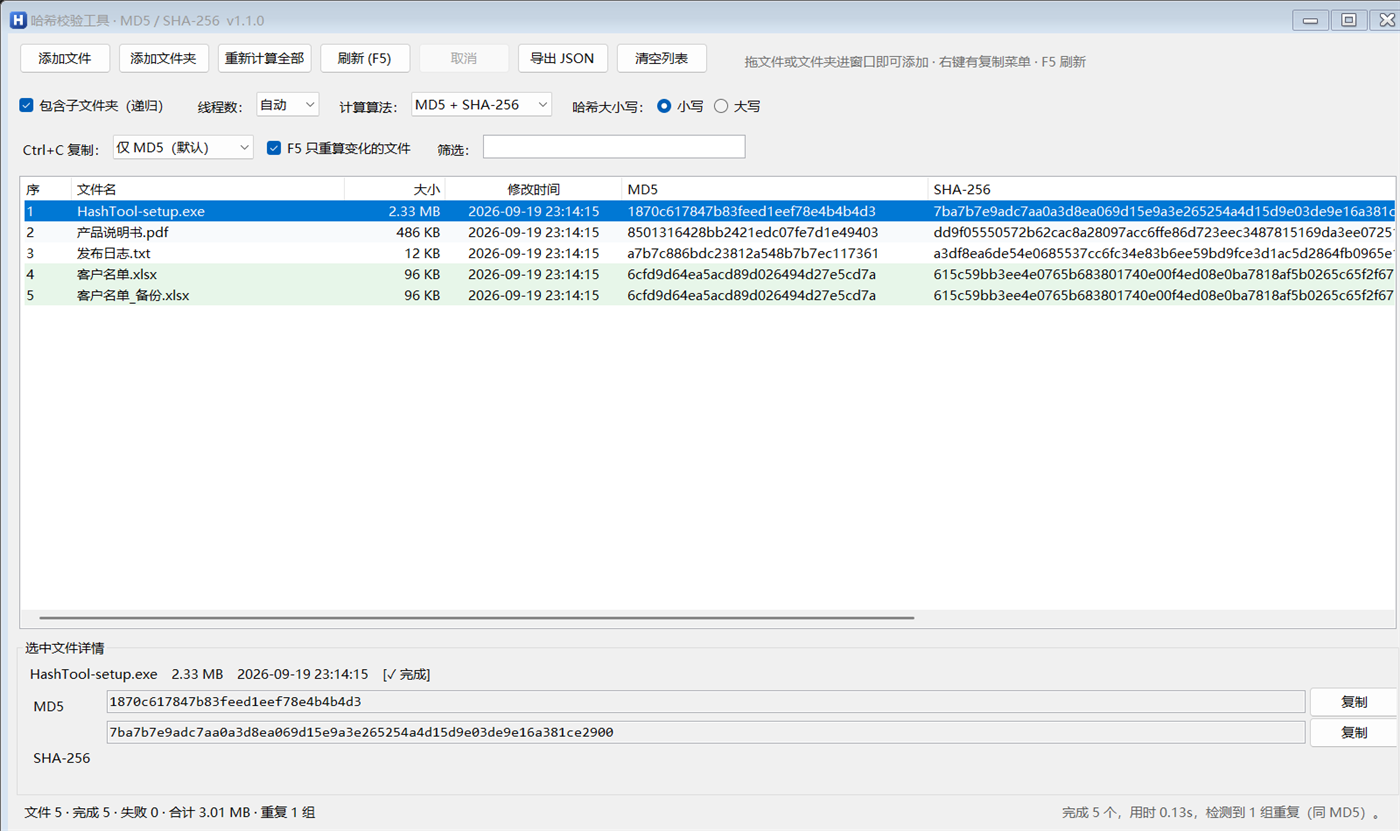
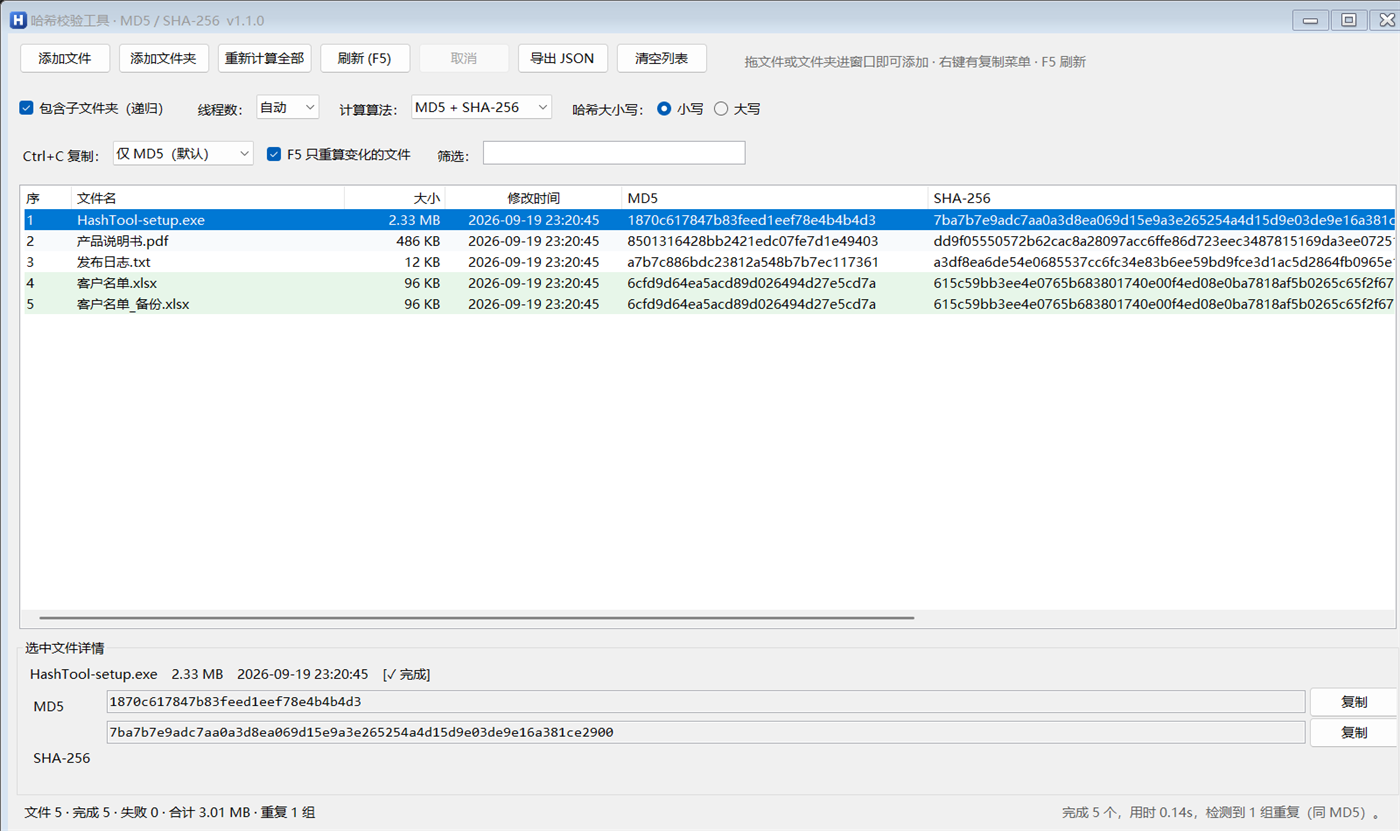
fix(ui): 工具栏在窄窗口下自动换行，不再把按钮切掉
CI 在 1024x768 的虚拟屏幕上跑时暴露了真问题：窗口被压窄后第一行按钮放不下，
右边的"导出 JSON/清空列表"会被切掉（老毛病，只是以前没人检测）。

改法：
  * 三行工具栏 WrapContents=true + AutoSize，TableLayoutPanel 对应行改成 AutoSize，
    窄了就换行、行高跟着长，最小高度兜底一行。
  * 布局自检升级：能换行的行按"需要几行 × 最高控件"算高度，只有真的放不下才报错；
    新增"窗口缩到最小尺寸也不裁"这条断言（本地已通过）。

另外修掉我自己埋的一个坑：ResizeForTest 里调了 Application.DoEvents()，
它会重新泵消息循环导致自测计时器重入、步骤重复执行（CI 日志里能看到跑了四五遍），
现在只调 PerformLayout()。

Changed region(s): [[0.0, 0.1203, 1.0, 0.3911]]

diff --git a/src/HashTool.cs b/src/HashTool.cs
@@ -868,9 +868,10 @@ namespace HashTool
             root.Dock = DockStyle.Fill;
             root.ColumnCount = 1;
             root.RowCount = 6;
-            root.RowStyles.Add(new RowStyle(SizeType.Absolute, S(44F)));   // 按钮
-            root.RowStyles.Add(new RowStyle(SizeType.Absolute, S(42F)));   // 选项
-            root.RowStyles.Add(new RowStyle(SizeType.Absolute, S(38F)));   // 复制 / 筛选
+            // 前三行用 AutoSize：窗口窄的时候工具栏会自动换行，行高跟着长，不会把控件切掉
+            root.RowStyles.Add(new RowStyle(SizeType.AutoSize));          // 按钮
+            root.RowStyles.Add(new RowStyle(SizeType.AutoSize));          // 选项
+            root.RowStyles.Add(new RowStyle(SizeType.AutoSize));          // 复制 / 筛选
             root.RowStyles.Add(new RowStyle(SizeType.Percent, 100F));      // 列表
             root.RowStyles.Add(new RowStyle(SizeType.Absolute, S(150F)));  // 详情
             root.RowStyles.Add(new RowStyle(SizeType.Absolute, S(62F)));   // 状态栏
@@ -881,7 +882,10 @@ namespace HashTool
             FlowLayoutPanel bar1 = _bar1;
             bar1.Dock = DockStyle.Fill;
             bar1.Padding = new Padding(S(8), S(6), S(8), 0);
-            bar1.WrapContents = false;
+            bar1.AutoSize = true;
+            bar1.AutoSizeMode = AutoSizeMode.GrowAndShrink;
+            bar1.WrapContents = true;                    // 窗口窄时自动换行，行高跟着长，不切控件
+            bar1.MinimumSize = new Size(0, S(42));
             root.Controls.Add(bar1, 0, 0);
 
             _btnAddFiles = MakeButton("添加文件", delegate { AddFiles(); });
@@ -912,7 +916,10 @@ namespace HashTool
             FlowLayoutPanel bar2 = _bar2;
             bar2.Dock = DockStyle.Fill;
             bar2.Padding = new Padding(S(8), S(4), S(8), 0);
-            bar2.WrapContents = false;
+            bar2.AutoSize = true;
+            bar2.AutoSizeMode = AutoSizeMode.GrowAndShrink;
+            bar2.WrapContents = true;
+            bar2.MinimumSize = new Size(0, S(40));
             root.Controls.Add(bar2, 0, 1);
 
             _chkRecursive = new CheckBox();
@@ -960,7 +967,10 @@ namespace HashTool
             FlowLayoutPanel bar3 = _bar3;
             bar3.Dock = DockStyle.Fill;
             bar3.Padding = new Padding(S(8), S(2), S(8), 0);
-            bar3.WrapContents = false;
+            bar3.AutoSize = true;
+            bar3.AutoSizeMode = AutoSizeMode.GrowAndShrink;
+            bar3.WrapContents = true;
+            bar3.MinimumSize = new Size(0, S(36));
             root.Controls.Add(bar3, 0, 2);
 
             bar3.Controls.Add(MakeLabel("Ctrl+C 复制：", 0));
@@ -2431,23 +2441,56 @@ namespace HashTool
         private static void AuditRow(FlowLayoutPanel panel, string name, List<string> problems)
         {
             if (panel == null) return;
-            int width = panel.Padding.Horizontal;
-            int height = panel.Padding.Vertical;
+            int available = panel.ClientSize.Width - panel.Padding.Horizontal;
+            if (available <= 0) return;
+
+            int totalWidth = 0;
+            int widestChild = 0;
+            int tallestChild = 0;
             for (int i = 0; i < panel.Controls.Count; i++)
             {
                 Control child = panel.Controls[i];
                 if (!child.Visible) continue;
-                width += child.Width + child.Margin.Horizontal;
-                height = Math.Max(height, child.Height + child.Margin.Vertical + panel.Padding.Top);
+                totalWidth += child.Width + child.Margin.Horizontal;
+                widestChild = Math.Max(widestChild, child.Width + child.Margin.Horizontal);
+                tallestChild = Math.Max(tallestChild, child.Height + child.Margin.Vertical);
             }
-            if (width > panel.ClientSize.Width)
+            if (tallestChild == 0) return;
+
+            // 单个控件本身就比整行还宽 —— 那不管换不换行都放不下
+            if (widestChild > available)
             {
-                problems.Add(name + "里的控件一共要 " + width + "px，但这一行只有 " + panel.ClientSize.Width + "px，右边会被裁掉");
+                problems.Add(name + "里有个控件要 " + widestChild + "px，比这一行可用的 " + available + "px 还宽");
             }
-            if (height > panel.ClientSize.Height)
+
+            // 允许换行时按行数算需要的高度；不允许换行时宽度一旦不够就是真的被裁掉了
+            int lines = 1;
+            if (panel.WrapContents)
             {
-                problems.Add(name + "内容高 " + height + "px，超过行高 " + panel.ClientSize.Height + "px，会被纵向裁掉");
+                lines = (int)Math.Ceiling((double)totalWidth / available);
+                if (lines < 1) lines = 1;
             }
+            else if (totalWidth > available)
+            {
+                problems.Add(name + "里的控件一共要 " + totalWidth + "px，但这一行只有 " + available + "px，右边会被裁掉");
+            }
+
+            int needed = lines * tallestChild + panel.Padding.Vertical;
+            if (needed > panel.ClientSize.Height)
+            {
+                problems.Add(name + "要 " + lines + " 行、共 " + needed + "px 高，但只有 " + panel.ClientSize.Height + "px，会被纵向裁掉");
+            }
+        }
+
+        /// <summary>
+        /// 测试用：把窗口调整到指定尺寸（用来验证小屏幕/窄窗口下的布局）。
+        /// 注意这里只能 PerformLayout，绝不能用 Application.DoEvents()：
+        /// DoEvents 会重新泵消息循环，导致自测用的计时器重入、步骤重复执行。
+        /// </summary>
+        public void ResizeForTest(int width, int height)
+        {
+            ClientSize = new Size(width, height);
+            PerformLayout();
         }
     }
 
@@ -2786,6 +2829,12 @@ namespace HashTool
                         // 界面布局：当前 DPI 下有没有文字被裁掉
                         string audit = form.LayoutAudit();
                         check(audit.Length == 0, "界面布局无裁剪" + (audit.Length > 0 ? "：" + audit : ""));
+
+                        // 小屏幕（或窗口被压窄）时：工具栏应该自动换行，而不是把按钮切掉
+                        form.ResizeForTest(form.MinimumSize.Width, form.MinimumSize.Height);
+                        string narrow = form.LayoutAudit();
+                        check(narrow.Length == 0, "窗口缩到最小尺寸也不裁" + (narrow.Length > 0 ? "：" + narrow : ""));
+                        form.ResizeForTest(1280, 760);
 
                         // 只算一个算法时，详情区要说清楚另一个没算
                         form.SetAlgorithm(2);                // 仅 SHA-256
